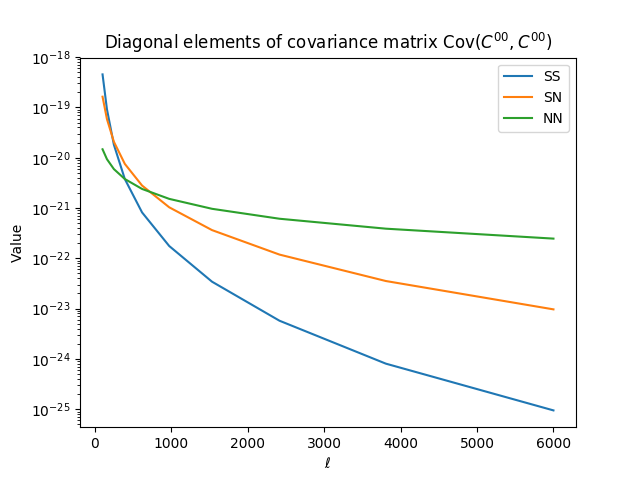
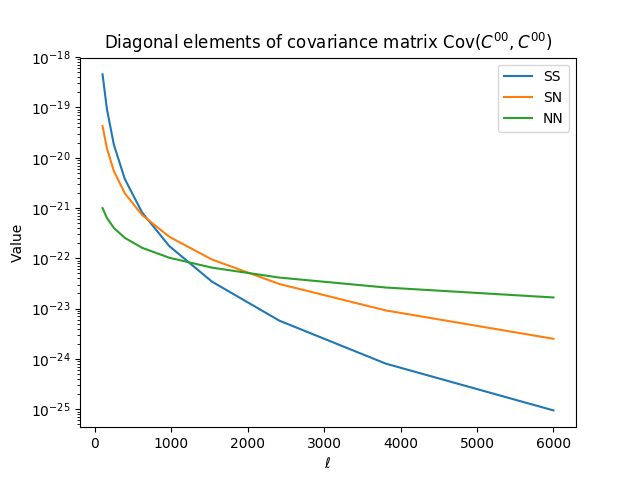
forgot squared shot noise

diff --git a/learning_purposes/ccl/generate_c_ell_onebin.py b/learning_purposes/ccl/generate_c_ell_onebin.py
@@ -119,10 +119,14 @@ def Modes_per_bin(b, ell_bin_edges, fsky):
     return fsky * (lb_max**2 - lb_min**2)
 
 def Nb_kroneker(i,j, sn):
-    # shot noise spectrum, zero when i != j
+    """
+    Shot noise spectrum 
+        zero when i != j
+        sn**2/number of galaxies when i == j
+    """
     
     if i == j :
-        x = sn/nzs[i]
+        x = sn**2/nzs[i]
         return x
     else:
         return 0
@@ -232,7 +236,9 @@ def plot_sample_variance_only_1bin():
     ax.set_title('logCovariance matrix from auto ell (diagonal)')
     im = ax.imshow(np.log10(covariance))
     plt.colorbar(im, ax=ax)
-    plt.show()
+    # plt.show()
+    # plt.savefig('./TestFigures/SScovariance_matrix_1bin.png')
+    plt.close()
 
 
     # ############## Plot the errorbars as the diagonal elements    
@@ -250,7 +256,8 @@ def plot_sample_variance_only_1bin():
     ax.set_ylabel('$\ell  (\ell + 1) C_\ell$')
     ax.set_xlabel('$\ell$')
     ax.set_title('Sample covariance only')
-    plt.show()
+    # plt.show()
+    plt.close()
 
 def plot_all_variances_1bin():
     # All 3 terms
@@ -293,7 +300,7 @@ def plot_all_variances_1bin():
     plt.show()
     '''
 
-    # ############# Plot the diagonals of the covariance matrices
+    # ############# Plot the diagonals of the (diagonal) covariance matrices 
     fig = plt.figure()#figsize=(12,8)
     plt.plot(ells, np.diagonal(covariance_SS),label='SS')
     plt.plot(ells, np.diagonal(covariance_SN),label='SN')
@@ -303,7 +310,9 @@ def plot_all_variances_1bin():
     plt.yscale('log')
     plt.title('Diagonal elements of covariance matrix Cov($C^{00},C^{00}$)')
     plt.legend()
-    plt.show()
+    plt.savefig('./TestFigures/Cov_matrix_1bin.png')
+    # plt.show()
+    plt.close()
 
 
     # ############## Plot the errorbars as the diagonal elements    
@@ -338,8 +347,10 @@ def plot_all_variances_1bin():
     ax.set_ylabel('$\ell  (\ell + 1) C_\ell$')
     ax.set_xlabel('$\ell$')
     ax.set_title('SS term only')
-    
-    plt.show()
+    plt.savefig('./TestFigures/C_ell_1bin_all_terms.png')
+    # plt.show()
+    plt.close()
+
 
 
 if __name__ == '__main__':

diff --git a/learning_purposes/ccl/generate_c_ell.py b/learning_purposes/ccl/generate_c_ell.py
@@ -124,11 +124,11 @@ def Nb_kroneker(i,j, sn):
     """
     Shot noise spectrum 
         zero when i != j
-        sn=0.26/number of galaxies when i == j
+        sn**2/number of galaxies when i == j
     """
     
     if i == j :
-        x = sn/nzs[i]
+        x = sn**2/nzs[i]
     else:
         x = 0
     return x
